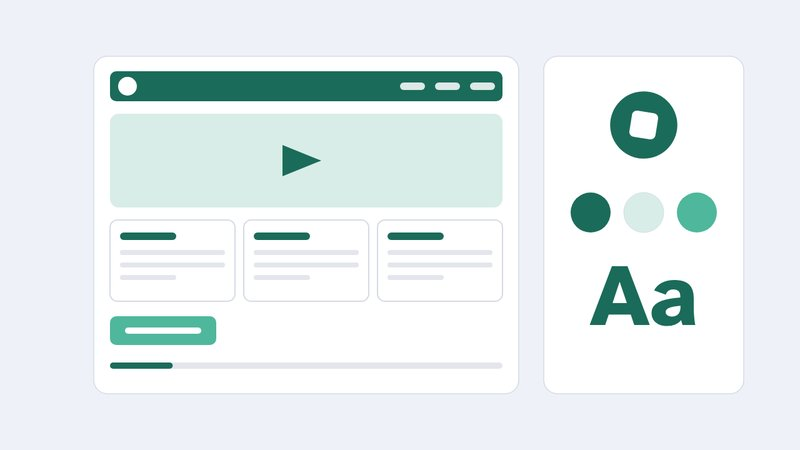
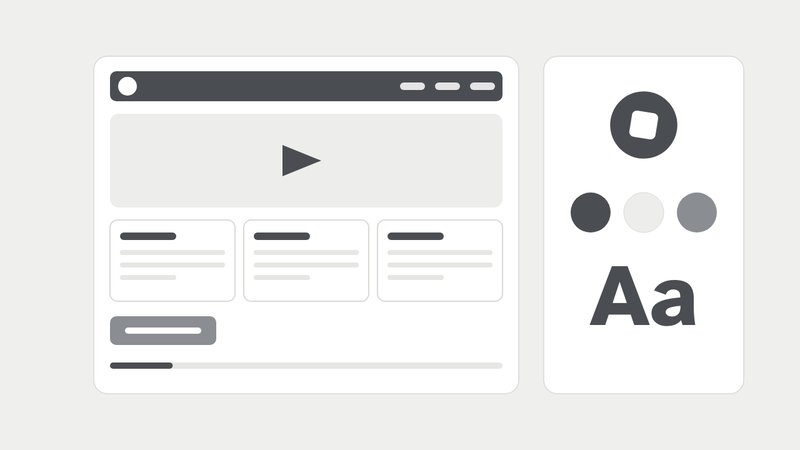
Carrusel de portada en blanco, negro y grises
Claude-Session: https://claude.ai/code/session_01MnGv8dLrLZDrQWoWfiJDmy

diff --git a/index.html b/index.html
@@ -65,7 +65,7 @@
   .apertura { padding-top: 72px; padding-bottom: 64px; display: grid; grid-template-columns: 1.15fr 1fr; gap: 56px; align-items: end; }
   .carrusel { margin: 0; }
   .sl { margin: 0; }
-  .sl img { width: 100%; height: auto; aspect-ratio: 16 / 9; background: #EEF1F8; border-radius: 4px; }
+  .sl img { width: 100%; height: auto; aspect-ratio: 16 / 9; background: #EFEFED; border-radius: 4px; }
   .sl figcaption { margin-top: 14px; }
   .sl strong { display: block; font-weight: 600; font-size: 1.12rem; }
   .sl span { display: block; color: var(--gris); font-size: 0.95rem; max-width: 46ch; margin-top: 2px; }

diff --git a/plantilla.html b/plantilla.html
@@ -65,7 +65,7 @@
   .apertura { padding-top: 72px; padding-bottom: 64px; display: grid; grid-template-columns: 1.15fr 1fr; gap: 56px; align-items: end; }
   .carrusel { margin: 0; }
   .sl { margin: 0; }
-  .sl img { width: 100%; height: auto; aspect-ratio: 16 / 9; background: #EEF1F8; border-radius: 4px; }
+  .sl img { width: 100%; height: auto; aspect-ratio: 16 / 9; background: #EFEFED; border-radius: 4px; }
   .sl figcaption { margin-top: 14px; }
   .sl strong { display: block; font-weight: 600; font-size: 1.12rem; }
   .sl span { display: block; color: var(--gris); font-size: 0.95rem; max-width: 46ch; margin-top: 2px; }
